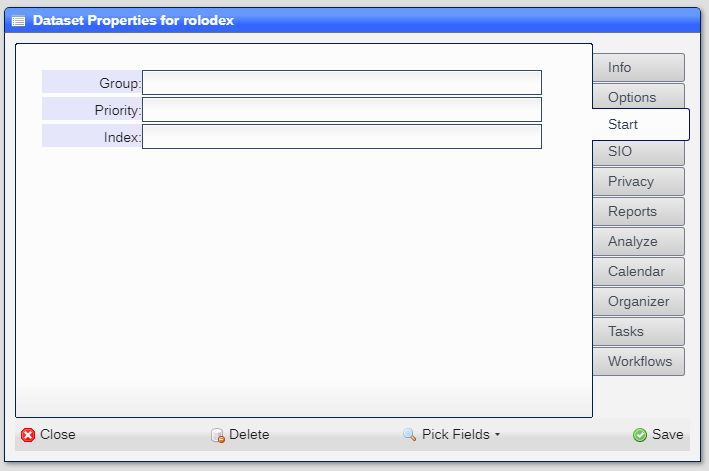
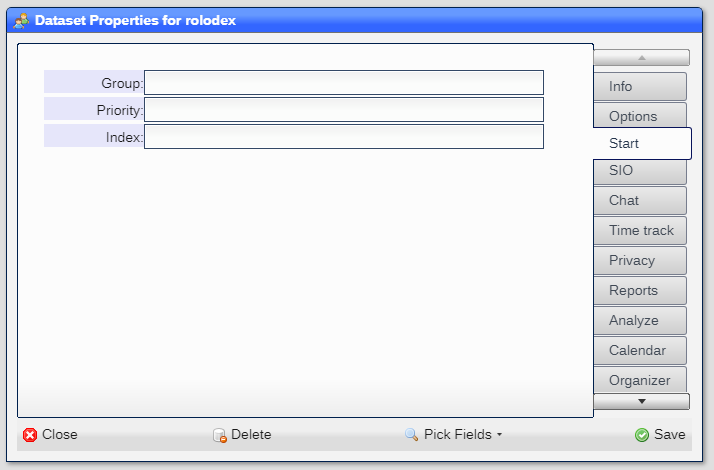
Updated READMEs

Changed region(s): [[0.0, 0.0, 0.9929, 0.983], [0.1241, 0.1489, 0.7757, 0.3277]]

diff --git a/readmes/README_D_DATASETS.md b/readmes/README_D_DATASETS.md
@@ -27,6 +27,7 @@ Click on any dataset entry to display the ***Dataset Properties*** window for th
 |-|-|
 |Only one|If ***y*** only one child object is to be displaye at a time|
 |Default Cmd|The ***command** to execute when the ***Enter*** key is pressed|
+|Selector|The selector code if the dataset is to be limited use|
 
 ---
 
@@ -45,6 +46,14 @@ Click on any dataset entry to display the ***Dataset Properties*** window for th
 |Field|Meaning|
 |-|-|
 |At save|A list of SIO commands to be sent when the object is saved|
+
+---
+
+![image](images/Ds20.png)
+
+|Field|Meaning|
+|-|-|
+|Enable|Is the chat feature available for the dataset|
 
 ---
 
